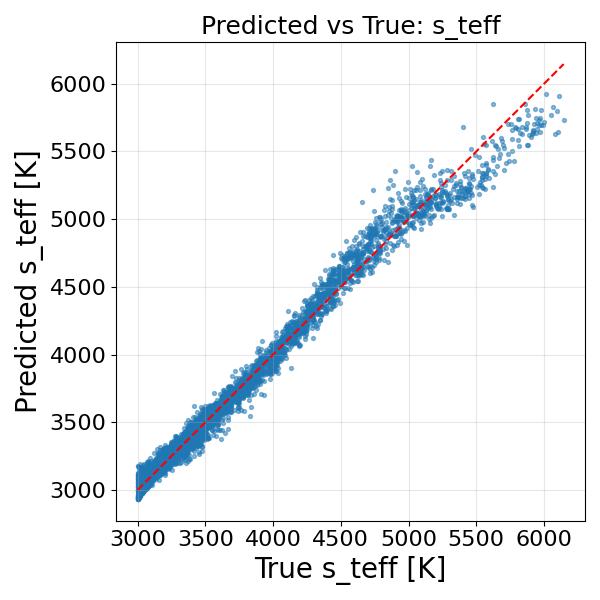
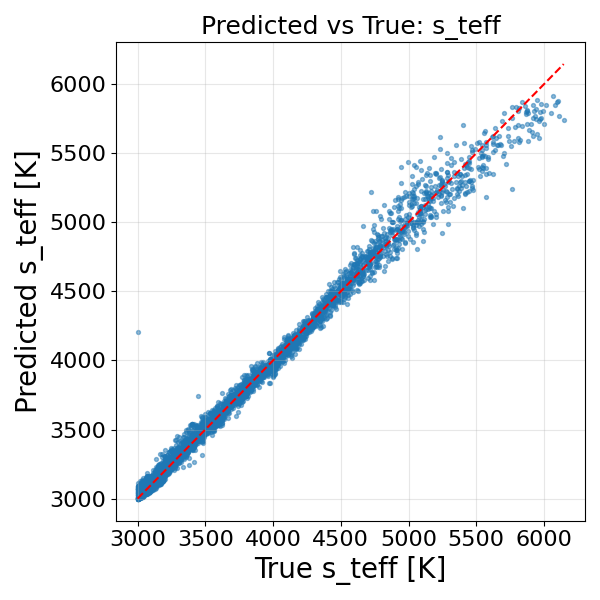
luminosity ratio plots

diff --git a/ANN/bANN.py b/ANN/bANN.py
@@ -1,11 +1,9 @@
-# run_ann.py
-
 import os
 import numpy as np
 import pandas as pd
 import torch
-import joblib
 import torch.nn as nn
+import joblib
 import matplotlib.pyplot as plt
 
 from sklearn.model_selection import train_test_split
@@ -18,25 +16,38 @@ from bANN_utils import (
     apply_additive_noise,
     StellarDataset,
     StellarANN,
-    predict_stellar_params_from_spectrum,
     plot_pred_vs_true,
-    plot_mask_check
+    plot_mask_check,
+    plot_teff_with_luminosity_ratio
 )
 
-# ========== PATHS ==========
+# ==========================
+# PATHS
+# ==========================
+
 base_dir = "/data/niaycarr/ANN-for-Stellar-Label-Determination/ANN"
 output_dir = os.path.join(base_dir, "results")
 os.makedirs(output_dir, exist_ok=True)
 
 csv_path = "clean_stellar_dataset.csv"
+# csv_path = "clean_stellar_dataset_Tdiff1000.csv"
 wavelength_file = "Koi1422_HET.txt"
+
+
+# ==========================
+# TRAINING FUNCTION
+# ==========================
 
 def train_and_evaluate():
 
+    # ======================
     # LOAD DATA
+    # ======================
+
     df = pd.read_csv(csv_path)
     flux_cols = [c for c in df.columns if c.startswith("flux_")]
 
+    # Convert radii to solar units
     R_SUN = 6.957e10
     df["p_radius"] /= R_SUN
     df["s_radius"] /= R_SUN
@@ -48,8 +59,13 @@ def train_and_evaluate():
     X = X_full[:, mask]
     y = df[label_names].values
 
+    # Normalize spectra
     X = X / np.median(X, axis=1, keepdims=True)
-    X = apply_additive_noise(X, snr=5)
+    X = apply_additive_noise(X, snr=30)
+
+    # ======================
+    # SCALING
+    # ======================
 
     x_scaler = StandardScaler()
     y_scaler = StandardScaler()
@@ -61,28 +77,55 @@ def train_and_evaluate():
         X_scaled, y_scaled, test_size=0.2, random_state=42
     )
 
-    train_loader = DataLoader(StellarDataset(X_train, y_train), batch_size=128, shuffle=True)
-    test_loader = DataLoader(StellarDataset(X_test, y_test), batch_size=128)
+    train_loader = DataLoader(
+        StellarDataset(X_train, y_train),
+        batch_size=128,
+        shuffle=True
+    )
+
+    test_loader = DataLoader(
+        StellarDataset(X_test, y_test),
+        batch_size=128
+    )
+
+    # ======================
+    # MODEL SETUP
+    # ======================
 
     device = "cuda" if torch.cuda.is_available() else "cpu"
+
     model = StellarANN(X_train.shape[1], len(label_names)).to(device)
 
-    criterion = nn.MSELoss()
+    # 🔥 Stronger secondary weighting
+    weights = torch.tensor([1.0, 10.0, 1.0, 5.0, 1.0, 5.0], device=device)
+
     optimizer = torch.optim.Adam(model.parameters(), lr=1e-3)
 
     best_val = float("inf")
-    patience = 15
+    patience = 20
     counter = 0
 
-    for epoch in range(20):
+    # ======================
+    # TRAINING LOOP
+    # ======================
 
+    n_epochs = 100 
+
+    for epoch in range(n_epochs):
+
+        # ----- Training -----
         model.train()
         train_loss = 0
 
         for xb, yb in train_loader:
             xb, yb = xb.to(device), yb.to(device)
+
             pred = model(xb)
-            loss = criterion(pred, yb)
+
+            # Proper weighted MSE
+            loss_per_param = (pred - yb) ** 2
+            weighted_loss = loss_per_param * weights
+            loss = weighted_loss.mean()
 
             optimizer.zero_grad()
             loss.backward()
@@ -92,43 +135,88 @@ def train_and_evaluate():
 
         train_loss /= len(train_loader)
 
+        # ----- Validation -----
         model.eval()
         val_loss = 0
 
         with torch.no_grad():
             for xb, yb in test_loader:
                 xb, yb = xb.to(device), yb.to(device)
-                val_loss += criterion(model(xb), yb).item()
+
+                pred = model(xb)
+                loss_per_param = (pred - yb) ** 2
+                weighted_loss = loss_per_param * weights
+                val_loss += weighted_loss.mean().item()
 
         val_loss /= len(test_loader)
 
         print(f"Epoch {epoch:3d} | Train {train_loss:.4f} | Val {val_loss:.4f}")
 
+        # ----- Early Stopping -----
         if val_loss < best_val:
             best_val = val_loss
             counter = 0
-            torch.save(model.state_dict(), os.path.join(base_dir, "stellar_ann_model.pt"))
-            joblib.dump(x_scaler, os.path.join(base_dir, "x_scaler.save"))
-            joblib.dump(y_scaler, os.path.join(base_dir, "y_scaler.save"))
-            print("New best model saved")
+
+            torch.save(model.state_dict(),
+                       os.path.join(base_dir, "stellar_ann_model.pt"))
+
+            joblib.dump(x_scaler,
+                        os.path.join(base_dir, "x_scaler.save"))
+
+            joblib.dump(y_scaler,
+                        os.path.join(base_dir, "y_scaler.save"))
+
+            print("✓ New best model saved")
+
         else:
             counter += 1
             if counter >= patience:
                 print("Early stopping triggered")
                 break
 
-    # Load best
-    model.load_state_dict(torch.load(os.path.join(base_dir, "stellar_ann_model.pt")))
+    # ======================
+    # EVALUATION
+    # ======================
+
+    model.load_state_dict(
+        torch.load(os.path.join(base_dir, "stellar_ann_model.pt"))
+    )
     model.eval()
 
-    x_scaler = joblib.load(os.path.join(base_dir, "x_scaler.save"))
-    y_scaler = joblib.load(os.path.join(base_dir, "y_scaler.save"))
-
     with torch.no_grad():
-        y_pred_scaled = model(torch.tensor(X_test, dtype=torch.float32).to(device)).cpu().numpy()
+        y_pred_scaled = model(
+            torch.tensor(X_test, dtype=torch.float32).to(device)
+        ).cpu().numpy()
 
     y_pred = y_scaler.inverse_transform(y_pred_scaled)
     y_true = y_scaler.inverse_transform(y_test)
+
+    # ======================
+    # TEMPORARY EXTRACT PARAMETERS
+    # ======================
+
+    idx_p_teff = label_names.index("p_teff")
+    idx_s_teff = label_names.index("s_teff")
+    idx_p_rad  = label_names.index("p_radius")
+    idx_s_rad  = label_names.index("s_radius")
+
+    # True vs predicted Teff
+    p_teff = y_true[:, idx_p_teff]
+    p_teff_pred = y_pred[:, idx_p_teff]
+
+    s_teff = y_true[:, idx_s_teff]
+    s_teff_pred = y_pred[:, idx_s_teff]
+
+    # Radii (needed for luminosity ratio)
+    p_rad = y_true[:, idx_p_rad]
+    s_rad = y_true[:, idx_s_rad]
+
+    log_lum_ratio = np.log10(
+        (s_rad**2 * s_teff**4) /
+        (p_rad**2 * p_teff**4)
+    )
+
+    # ======================
 
     errors = y_pred - y_true
     abs_errors = np.abs(errors)
@@ -143,9 +231,34 @@ def train_and_evaluate():
     for name, re in zip(label_names, np.median(rel_errors, axis=0)):
         print(f"{name:10s}: {re*100:.2f}%")
 
+    # ======================
+    # PLOTS
+    # ======================
+
     plot_pred_vs_true(y_true, y_pred, label_names, output_dir)
     plot_mask_check(df, wavelength, build_wavelength_mask, output_dir)
 
+    # Secondary Teff plot
+    plot_teff_with_luminosity_ratio(
+        s_teff,
+        s_teff_pred,
+        log_lum_ratio,
+        save_path=os.path.join(output_dir, "s_teff_luminosity_ratio.png")
+    )
+
+    # Primary Teff plot
+    plot_teff_with_luminosity_ratio(
+        p_teff,
+        p_teff_pred,
+        log_lum_ratio,
+        save_path=os.path.join(output_dir, "p_teff_luminosity_ratio.png")
+    )
+
+
+
+# ==========================
+# RUN
+# ==========================
 
 if __name__ == "__main__":
     train_and_evaluate()

diff --git a/ANN/bANN_utils.py b/ANN/bANN_utils.py
@@ -194,3 +194,67 @@ def plot_pred_vs_estimated(y_true, y_pred, label_names, output_dir):
 
         plt.savefig(os.path.join(output_dir, f"pred_vs_true_{name}.png"))
         plt.close()
+
+def plot_teff_with_luminosity_ratio(
+    s_teff,
+    s_teff_pred,
+    log_lum_ratio,
+    save_path=None,
+    show=True
+):
+    """
+    Scatter plot of true vs predicted secondary Teff,
+    color-coded by log10 luminosity ratio.
+
+    Parameters
+    ----------
+    s_teff : array-like
+        True secondary Teff values
+    s_teff_pred : array-like
+        Predicted secondary Teff values
+    log_lum_ratio : array-like
+        log10(L_s / L_p) values for color-coding
+    save_path : str, optional
+        Path to save the figure (if None, won't save)
+    show : bool, optional
+        Whether to display the plot
+    """
+
+    plt.figure(figsize=(7, 6))
+
+    sc = plt.scatter(
+        s_teff,
+        s_teff_pred,
+        c=log_lum_ratio,
+        cmap="viridis",
+        alpha=0.8
+    )
+
+    # 1:1 reference line
+    min_val = np.min(s_teff)
+    max_val = np.max(s_teff)
+
+    plt.plot(
+        [min_val, max_val],
+        [min_val, max_val],
+        'k--'
+    )
+
+    plt.xlabel("True Secondary Teff [K]")
+    plt.ylabel("Predicted Secondary Teff [K]")
+    plt.title("Secondary Teff (Color-coded by Luminosity Ratio)")
+
+    cbar = plt.colorbar(sc)
+    cbar.set_label("log10(L_s / L_p)")
+
+    plt.tight_layout()
+
+    # Save if path provided
+    if save_path is not None:
+        os.makedirs(os.path.dirname(save_path), exist_ok=True)
+        plt.savefig(save_path)
+
+    if show:
+        plt.show()
+    else:
+        plt.close()

diff --git a/README.md b/README.md
@@ -1,36 +1,17 @@
 ### Updates explained:
 
-- Updated SNR and filtered out 83 stars with Teff's above 6200 K leaving us with 195 stars.
+- added plots that of our color-coded teffs by log10 luminosity ratio.
 
 ### RESULTS
 
 Median Relative Errors per parameter:
-p_teff    : 1.32%
-s_teff    : 2.65%
-p_logg    : 0.23%
-s_logg    : 0.60%
-p_radius  : 2.62%
-s_radius  : 8.24%
-
-As you can see with KOI 1422, it aligns quite well with what we can be assured are valid estimated values, from both Kendall's model and my ANN
-
-KOI 1522 Truth stellar parameters:
-p_teff    : 3665
-s_teff    : 3372
-p_logg    : 5.03
-s_logg    : 4.53
-p_radius  : 0.41
-s_radius  : 0.274
-
-KOI 1422 Predicted stellar parameters:
-p_teff    : 3771.2600
-s_teff    : 3333.8699
-p_logg    : 4.8240
-s_logg    : 5.0250
-p_radius  : 0.4568
-s_radius  : 0.2585
+p_teff    : 0.69%
+s_teff    : 0.79%
+p_logg    : 0.17%
+s_logg    : 0.19%
+p_radius  : 1.54%
+s_radius  : 2.49%
 
 
-![Predicted vs True Primary Teff](/ANN/results/pred_vs_true_p_teff.png)
-![ANN vs Derived Primary Teff](/ANN/Prediction_Plots/pred_vs_true_p_teff.png)
-![ANN vs Derived Secondary Teff](/ANN/Prediction_Plots/pred_vs_true_s_teff.png)
+
+![Secondary Teff Luminosity Ratio](/ANN-for-Stellar-Label-Determination/ANN/results/s_teff_luminosity_ratio.png)
